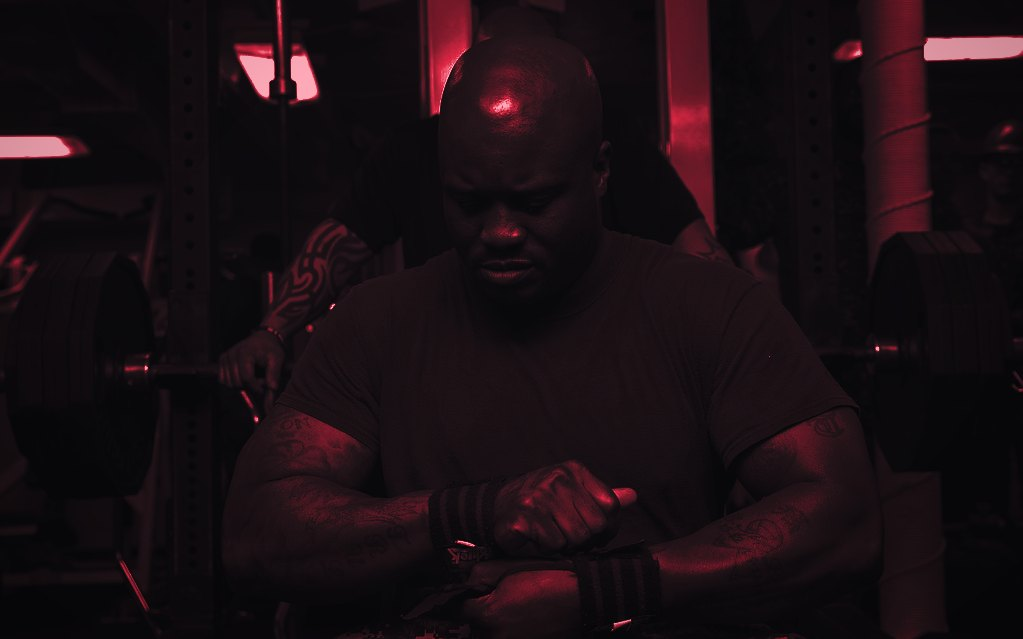
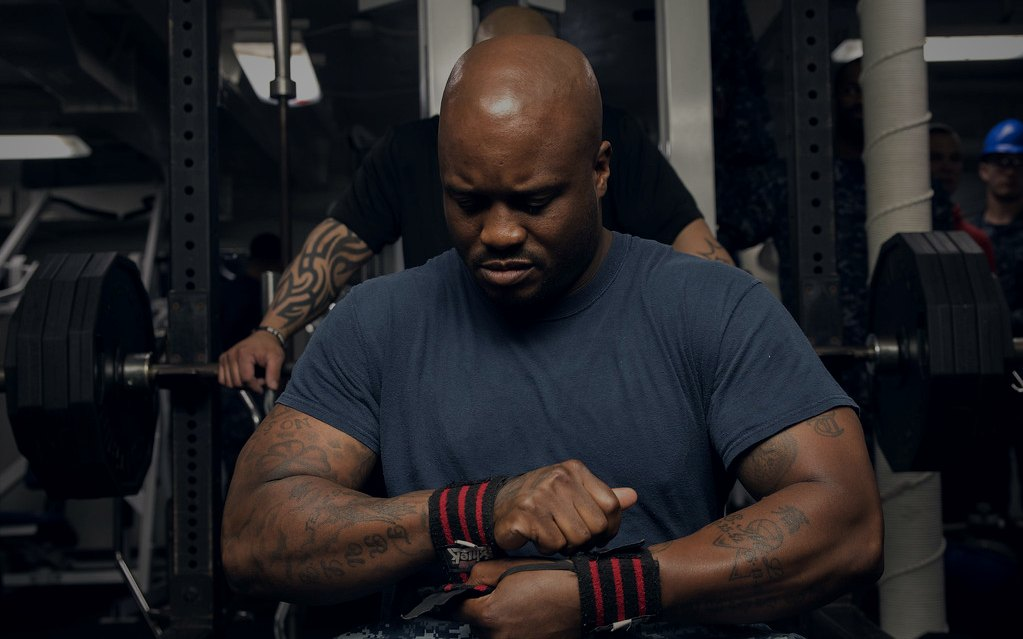
Entrena: fotografía en color y la semana día a día, de verdad
FUERA EL DUOTONO ROJO
Unificaba las fotos, sí, pero a costa de tirar la fotografía entera: un
gimnasio y una montaña acababan siendo la misma mancha roja, y lo que se ganaba
en coherencia se perdía en que ninguna imagen decía ya nada.

Ahora llevan el tratamiento que no se nota precisamente porque está bien hecho:
exposición al 62 %, contraste y saturación subidos ANTES de oscurecer —al revés
se realza una foto ya apagada y sale ruido—, las sombras un punto frías para que
sus negros peguen con el #050506 de la app en vez de tirar a marrón, y viñeta
para que el texto tenga fondo venga la foto que venga. Con la foto ya oscura, el
velo de la tarjeta baja de 0,40 a 0,10 arriba y desaparece el tinte rojo que
llevaba encima: ahora se ve el gimnasio.

LA TIRA DE LA SEMANA MENTÍA
Rellenaba de izquierda a derecha con el total semanal, así que marcaba el lunes
cuando se había entrenado el miércoles. Un dato aproximado que se ve a simple
vista no es una aproximación, es un error, y en siete casillas se ve a la
primera.

Nuevo `/workout/stats/days`, con el desplazamiento horario del móvil: la base
guarda UTC y entrenar a las once de la noche en México se marcaría al día
siguiente. Siembra también los días vacíos —la tira dibuja los siete y «no hubo
nada» es distinto de «no vino en la respuesta»— y la inicial de cada día se
saca de su fecha, porque son los últimos siete días y el primero no es lunes.

diff --git a/frontend/src/components/workout/TiraSemana.tsx b/frontend/src/components/workout/TiraSemana.tsx
@@ -18,31 +18,32 @@
 
 import { View, Text, StyleSheet } from 'react-native'
 import Animated, { FadeInDown } from 'react-native-reanimated'
-import { Semana } from '@/services/statsService'
+import { Dia } from '@/services/statsService'
 import { Colors, Typography, Spacing } from '@/constants/theme'
 
 const DIAS = ['L', 'M', 'X', 'J', 'V', 'S', 'D']
 
 interface Props {
-  /** Semanas del servidor; se usa la última para repartir por días. */
-  semanas: Semana[]
+  /** Los siete últimos días, del servidor y ya en huso local. */
+  dias: Dia[]
   sesionesSemana: number
   objetivo: number
   racha: number
 }
 
-export function TiraSemana({ semanas, sesionesSemana, objetivo, racha }: Props) {
+export function TiraSemana({ dias, sesionesSemana, objetivo, racha }: Props) {
   /**
-   * El reparto por día del que hay dato.
+   * Los siete días REALES, no un reparto aproximado.
    *
-   * El servidor agrega por SEMANA, no por día, así que aquí no se puede pintar
-   * cada día por separado con exactitud. Se usa el total de la semana en curso
-   * para llenar los días ya pasados de izquierda a derecha, que es una
-   * aproximación honesta mientras el endpoint no devuelva el desglose diario:
-   * el número de días llenos es exacto, su colocación no.
+   * La primera versión rellenaba de izquierda a derecha con el total de la
+   * semana: marcaba el lunes cuando se había entrenado el miércoles. Un dato
+   * aproximado que se ve a simple vista no es una aproximación, es un error, y
+   * en una tira de siete casillas se ve a la primera.
+   *
+   * El servidor los devuelve en orden y con la fecha ya en el huso del móvil.
    */
-  const hoy = (new Date().getDay() + 6) % 7   // 0 = lunes
-  const llenos = Math.min(sesionesSemana, hoy + 1)
+  const ultimos = dias.slice(-7)
+  const hoy = ultimos.length - 1
 
   const frase = sesionesSemana === 0
     ? 'Todavía sin entrenar esta semana'
@@ -68,13 +69,17 @@ export function TiraSemana({ semanas, sesionesSemana, objetivo, racha }: Props) 
       </View>
 
       <View style={s.tira}>
-        {DIAS.map((d, i) => {
-          const pasado = i <= hoy
-          const lleno = i < llenos
+        {ultimos.map((dia, i) => {
+          const lleno = dia.sesiones > 0
           const esHoy = i === hoy
+          const pasado = i <= hoy
+          // La inicial del día sale de la FECHA, no de una lista fija: la tira
+          // son los últimos siete días, no la semana natural, así que el
+          // primero no es siempre lunes.
+          const inicial = DIAS[(new Date(dia.fecha + 'T12:00:00').getDay() + 6) % 7]
           return (
             <Animated.View
-              key={d}
+              key={dia.fecha}
               entering={FadeInDown.delay(i * 40).duration(320)}
               style={s.columna}
             >
@@ -86,7 +91,7 @@ export function TiraSemana({ semanas, sesionesSemana, objetivo, racha }: Props) 
               ]}>
                 {lleno && <View style={s.brillo} />}
               </View>
-              <Text style={[s.dia, esHoy && s.diaHoy]}>{d}</Text>
+              <Text style={[s.dia, esHoy && s.diaHoy]}>{inicial}</Text>
             </Animated.View>
           )
         })}

diff --git a/backend/src/controllers/workoutStatsController.ts b/backend/src/controllers/workoutStatsController.ts
@@ -391,3 +391,75 @@ export async function ejerciciosMasHechos(req: Request, res: Response): Promise<
       .slice(0, 40),
   })
 }
+
+
+// ── Día a día ────────────────────────────────────────────────────────────────
+
+/**
+ * Sesiones por DÍA, no por semana.
+ *
+ * La tira de siete días de la portada necesita saber qué días exactamente se
+ * entrenó. Con el agregado semanal solo se sabe CUÁNTOS, y rellenar de
+ * izquierda a derecha pintaba el lunes cuando se había entrenado el miércoles.
+ * Un dato aproximado que se ve a simple vista no es una aproximación, es un
+ * error.
+ *
+ * El día se calcula en el HUSO DEL CLIENTE, que llega como desplazamiento en
+ * minutos: la base guarda UTC y a las once de la noche en México eso ya es el
+ * día siguiente en Londres. Sin el ajuste, entrenar de noche marcaría mañana.
+ */
+export const diasSchema = z.object({
+  query: z.object({
+    days: z.coerce.number().int().min(1).max(90).optional(),
+    /** `new Date().getTimezoneOffset()` del móvil. Positivo al oeste. */
+    tzOffset: z.coerce.number().int().min(-840).max(840).optional(),
+  }),
+})
+
+export async function porDia(req: Request, res: Response): Promise<void> {
+  const userId = req.user!.userId
+  const dias = Number(req.query.days ?? 7)
+  const offsetMin = Number(req.query.tzOffset ?? 0)
+
+  const { data, error } = await supabase
+    .from('workout_sessions')
+    .select('started_at, duration_seconds, total_sets, total_volume_kg, mode')
+    .eq('user_id', userId)
+    .eq('status', 'completed')
+    .gte('started_at', desde(dias + 1))
+    .order('started_at', { ascending: true })
+
+  if (error) { fail(res, 500, 'No se pudo leer el detalle por día'); return }
+
+  /** La fecha local de una marca de tiempo UTC. */
+  const diaLocal = (iso: string): string =>
+    new Date(new Date(iso).getTime() - offsetMin * 60_000).toISOString().slice(0, 10)
+
+  const mapa = new Map<string, { sesiones: number; series: number; volumen: number; minutos: number }>()
+
+  // Se siembran TODOS los días de la ventana, también los vacíos: la tira
+  // dibuja los siete y necesita saber cuáles no tuvieron nada, que es
+  // información distinta de «no vino en la respuesta».
+  const hoyLocal = new Date(Date.now() - offsetMin * 60_000)
+  for (let i = 0; i < dias; i++) {
+    const d = new Date(hoyLocal)
+    d.setUTCDate(d.getUTCDate() - i)
+    mapa.set(d.toISOString().slice(0, 10), { sesiones: 0, series: 0, volumen: 0, minutos: 0 })
+  }
+
+  for (const s of data ?? []) {
+    const k = diaLocal(s.started_at)
+    const acc = mapa.get(k)
+    if (!acc) continue                     // cae fuera de la ventana local
+    acc.sesiones += 1
+    acc.series += s.total_sets ?? 0
+    acc.volumen += Number(s.total_volume_kg ?? 0)
+    acc.minutos += Math.round((s.duration_seconds ?? 0) / 60)
+  }
+
+  ok(res, {
+    dias: [...mapa.entries()]
+      .sort(([a], [b]) => a.localeCompare(b))
+      .map(([fecha, v]) => ({ fecha, ...v, volumen: Math.round(v.volumen) })),
+  })
+}

diff --git a/frontend/src/constants/imagenes.ts b/frontend/src/constants/imagenes.ts
@@ -1,8 +1,8 @@
 /**
  * IMÁGENES DE ENTRENA
  * ───────────────────
- * Las fotografías de portada de la sección. Ocho, tratadas todas con el mismo
- * duotono de marca.
+ * Las fotografías de portada de la sección. Ocho, en color y tratadas todas
+ * igual para que funcionen como fondo bajo texto blanco.
  *
  * ── VAN EMPAQUETADAS, no en R2 ──────────────────────────────────────────────
  * Los medios de la comunidad viven en el bucket con URL firmadas de una hora,
@@ -26,13 +26,18 @@
  * pago. La procedencia de cada una queda anotada abajo por si algún día hay que
  * justificarla.
  *
- * ── Y por qué están teñidas ─────────────────────────────────────────────────
- * El problema de las fotos de licencia libre no es la calidad de cada una: es
- * que vienen de sitios distintos y juntas parecen un collage. Todas pasan por
- * el mismo mapa de gradiente —negro en las sombras, rojo de marca solo en las
- * luces altas— así que una foto de un gimnasio con fluorescentes y una de una
- * montaña nevada acaban en la misma escala. El script está en
- * `scratchpad/procesar.py` del día que se hicieron.
+ * ── Cómo están tratadas ─────────────────────────────────────────────────────
+ * EN COLOR. Hubo una versión teñida de rojo con un duotono de marca: unificaba,
+ * pero a costa de tirar la fotografía entera —un gimnasio y una montaña
+ * acababan siendo la misma mancha— y lo que se ganaba en coherencia se perdía
+ * en que ninguna imagen decía ya nada. Descartada.
+ *
+ * Lo que llevan es el tratamiento que no se nota precisamente porque está bien
+ * hecho: exposición bajada al 62 %, contraste y saturación subidos ANTES de
+ * oscurecer —al revés se realza una foto ya apagada y sale ruido—, las sombras
+ * un punto frías para que sus negros peguen con el #050506 de la app en vez de
+ * tirar a marrón, y viñeta en las esquinas para que el texto tenga fondo venga
+ * la foto que venga. El script queda en `scratchpad/procesar.py`.
  */
 
 import { ImageSourcePropType } from 'react-native'

diff --git a/frontend/src/components/workout/HeroCard.tsx b/frontend/src/components/workout/HeroCard.tsx
@@ -114,9 +114,9 @@ export function HeroCard({
         {/* ── Fondo ──────────────────────────────────────────────────────── */}
         <Animated.View style={[StyleSheet.absoluteFill, estiloParallax]}>
           {foto ? (
-            // La foto va casi entera: ya viene oscurecida y con viñeta del
-            // proceso, así que aquí no hace falta apagarla otra vez.
-            <Image source={foto} style={{ flex: 1, opacity: 0.92 }} contentFit="cover" transition={280} />
+            // Entera y sin apagar: ya viene oscurecida y con viñeta del
+            // proceso. Bajarle aquí la opacidad otra vez la dejaría gris.
+            <Image source={foto} style={{ flex: 1 }} contentFit="cover" transition={280} />
           ) : usables.length > 0 ? (
             <View style={s.collage}>
               {usables.map((uri, i) => (
@@ -153,18 +153,11 @@ export function HeroCard({
 
         {/* Velo: sin esto el texto blanco sobre pósters claros no se lee. */}
         <LinearGradient
-          colors={['rgba(5,5,6,0.40)', 'rgba(5,5,6,0.78)', 'rgba(5,5,6,0.97)']}
+          colors={['rgba(5,5,6,0.10)', 'rgba(5,5,6,0.62)', 'rgba(5,5,6,0.95)']}
           locations={[0, 0.45, 1]}
           style={StyleSheet.absoluteFill}
           pointerEvents="none"
         />
-        <LinearGradient
-          colors={['rgba(255,31,61,0.22)', 'transparent']}
-          start={{ x: 1, y: 0 }} end={{ x: 0.15, y: 0.7 }}
-          style={StyleSheet.absoluteFill}
-          pointerEvents="none"
-        />
-
         {/* ── Contenido ──────────────────────────────────────────────────── */}
         <View style={s.dentro}>
           {badge ? (
@@ -244,7 +237,7 @@ export function ColeccionCard({ titulo, cuenta, foto, posters = [], onPress, anc
       >
         <View style={c.fondo}>
           {foto ? (
-            <Image source={foto} style={{ flex: 1, opacity: 0.9 }} contentFit="cover" transition={240} />
+            <Image source={foto} style={{ flex: 1 }} contentFit="cover" transition={240} />
           ) : usables.length > 0 ? (
             <View style={{ flex: 1, flexDirection: 'row' }}>
               {usables.map((uri, i) => (

diff --git a/frontend/app/(tabs)/workout.tsx b/frontend/app/(tabs)/workout.tsx
@@ -39,7 +39,7 @@ import { TiraSemana } from '@/components/workout/TiraSemana'
 import { Cifra } from '@/components/workout/Charts'
 import { useSessionStore } from '@/store/sessionStore'
 import {
-  getResumen, getVolumen, Resumen, Semana,
+  getResumen, getDias, Resumen, Dia,
   kilosCorto, minutosCorto, desdeCuando,
 } from '@/services/statsService'
 import { listarSesiones, Sesion } from '@/services/sessionService'
@@ -68,7 +68,7 @@ export default function EntrenaHoy() {
   const { sesion, series, restaurar } = useSessionStore()
 
   const [resumen, setResumen] = useState<Resumen | null>(null)
-  const [semanas, setSemanas] = useState<Semana[]>([])
+  const [dias, setDias] = useState<Dia[]>([])
   const [recientes, setRecientes] = useState<Sesion[]>([])
   const [propuesta, setPropuesta] = useState<Generado | null>(null)
   const [cargando, setCargando] = useState(true)
@@ -78,12 +78,12 @@ export default function EntrenaHoy() {
     try {
       const [r, v, h, g] = await Promise.all([
         getResumen(28).catch(() => null),
-        getVolumen(56).catch(() => null),
+        getDias(7).catch(() => null),
         listarSesiones({ limit: 3 }).catch(() => null),
         getEntrenamiento(PROPUESTA.region, PROPUESTA.minutos, PROPUESTA.lugar).catch(() => null),
       ])
       setResumen(r)
-      setSemanas(v?.semanas ?? [])
+      setDias(v?.dias ?? [])
       setRecientes(h?.sessions ?? [])
       setPropuesta(g)
     } finally {
@@ -194,7 +194,7 @@ export default function EntrenaHoy() {
             {/* ── La semana, en una tira ───────────────────────────────── */}
             <Animated.View entering={FadeInDown.delay(80).duration(380)} style={s.bloque}>
               <TiraSemana
-                semanas={semanas}
+                dias={dias}
                 sesionesSemana={sesionesSemana}
                 objetivo={OBJETIVO_SEMANA}
                 racha={resumen?.racha ?? 0}

diff --git a/frontend/src/services/statsService.ts b/frontend/src/services/statsService.ts
@@ -46,6 +46,15 @@ export interface Musculos {
   grupos: CargaGrupo[]
 }
 
+export interface Dia {
+  /** YYYY-MM-DD en el huso del móvil, no en UTC. */
+  fecha: string
+  sesiones: number
+  series: number
+  volumen: number
+  minutos: number
+}
+
 export interface Semana {
   lunes: string
   volumen: number
@@ -89,6 +98,17 @@ export const getMusculos = async (days = 7): Promise<Musculos> =>
 
 export const getVolumen = async (days = 84): Promise<{ semanas: Semana[] }> =>
   unwrap(await apiGet('/workout/stats/volume', { params: { days } }))
+
+/**
+ * Día a día, para la tira de la semana.
+ *
+ * Va el desplazamiento horario del móvil porque la base guarda UTC: sin él,
+ * entrenar a las once de la noche se marcaría en el día siguiente.
+ */
+export const getDias = async (days = 7): Promise<{ dias: Dia[] }> =>
+  unwrap(await apiGet('/workout/stats/days', {
+    params: { days, tzOffset: new Date().getTimezoneOffset() },
+  }))
 
 export const getEjercicios = async (days = 90): Promise<{ ejercicios: EjercicioHecho[] }> =>
   unwrap(await apiGet('/workout/stats/exercises', { params: { days } }))

diff --git a/backend/src/routes/workout.routes.ts b/backend/src/routes/workout.routes.ts
@@ -28,7 +28,7 @@ import {
 } from '../controllers/workoutSessionController'
 import {
   resumen, porMusculo, volumenPorSemana, ejerciciosMasHechos, curvaEjercicio,
-  ventanaSchema, curvaSchema,
+  porDia, ventanaSchema, curvaSchema, diasSchema,
 } from '../controllers/workoutStatsController'
 import { authenticate } from '../middleware/auth'
 import { validate } from '../middleware/validate'
@@ -57,6 +57,7 @@ router.get('/exercise-history/:key', validate(historialEjercicioSchema), histori
 router.get('/stats/summary', validate(ventanaSchema), resumen)
 router.get('/stats/muscles', validate(ventanaSchema), porMusculo)
 router.get('/stats/volume', validate(ventanaSchema), volumenPorSemana)
+router.get('/stats/days', validate(diasSchema), porDia)
 router.get('/stats/exercises', validate(ventanaSchema), ejerciciosMasHechos)
 router.get('/stats/curve/:key', validate(curvaSchema), curvaEjercicio)
 
